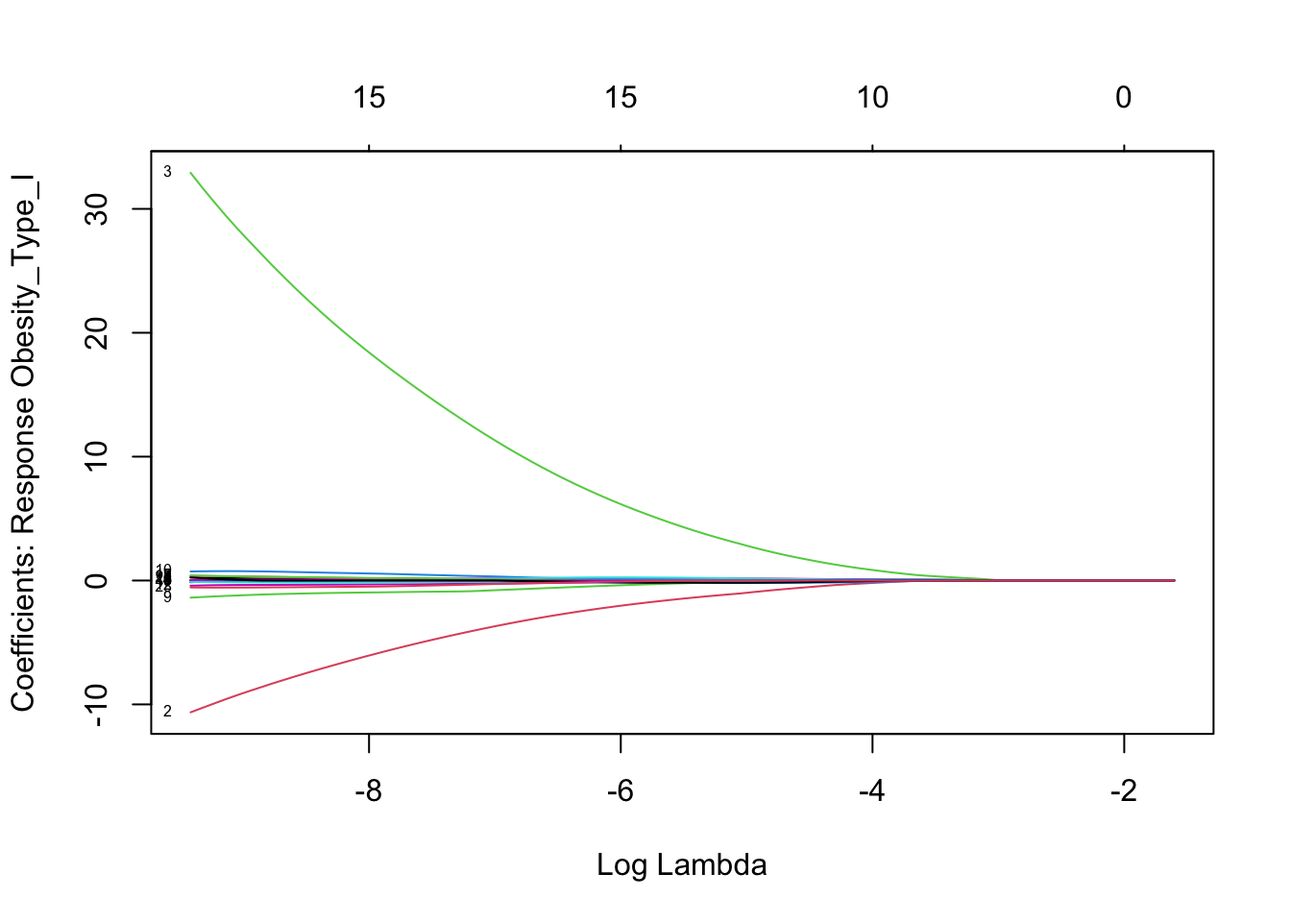
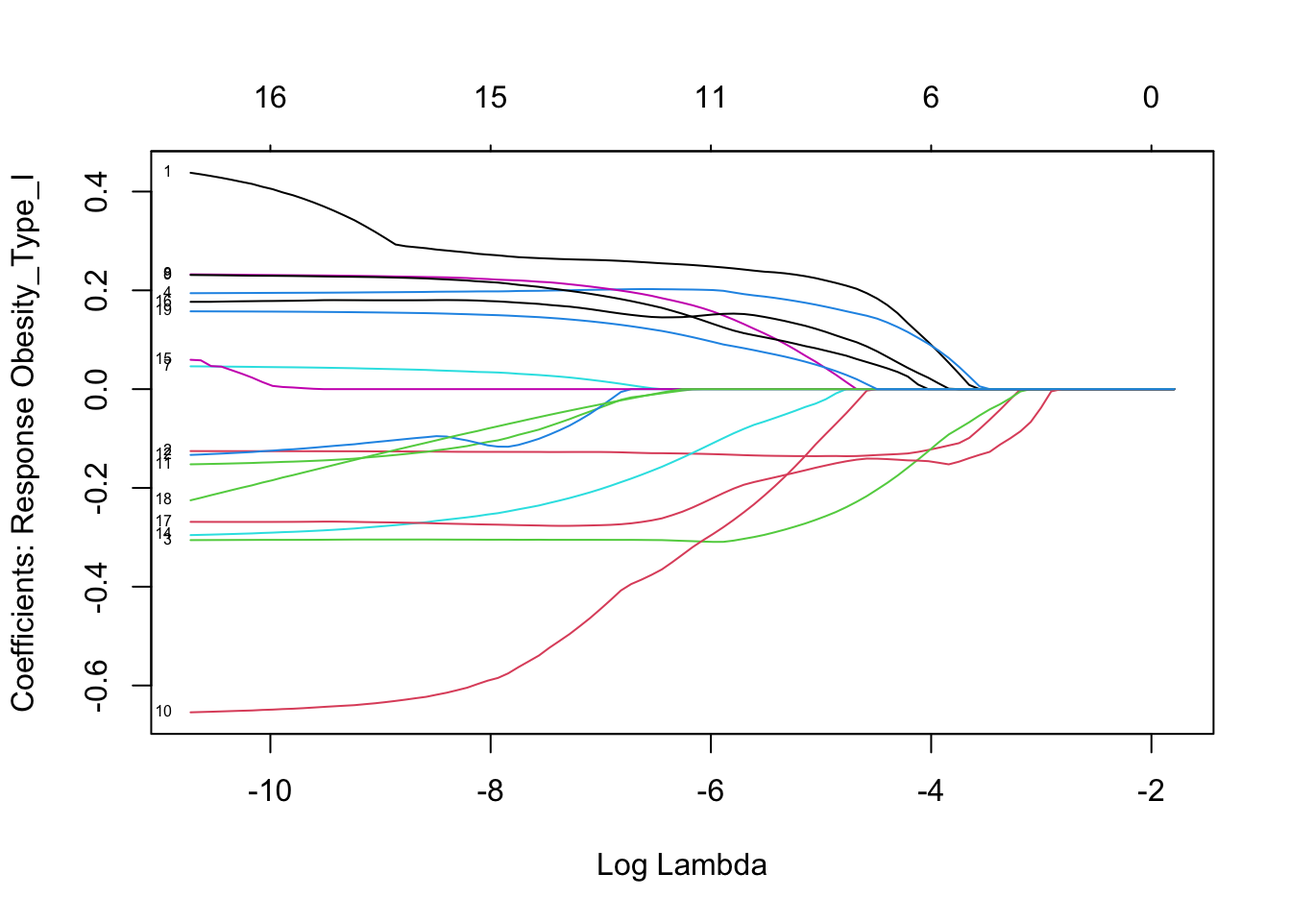
;)

diff --git a/docs/Obesity-Final-Project.html b/docs/Obesity-Final-Project.html
@@ -229,7 +229,7 @@ pre > code.sourceCode > span > a:first-child::before { text-decoration: underlin
 </tr>
 <tr class="even">
 <td><a href="https://ggplot2.tidyverse.org/">ggplot2</a></td>
-<td>to create nice-looking and informative graphs</td>
+<td>to create nice looking and informative graphs</td>
 </tr>
 <tr class="odd">
 <td><a href="https://cran.r-project.org/package=nnet">nnet</a></td>
@@ -533,39 +533,39 @@ pre > code.sourceCode > span > a:first-child::before { text-decoration: underlin
 </div>
 <div class="cell">
 <div class="sourceCode cell-code" id="cb23"><pre class="sourceCode r code-with-copy"><code class="sourceCode r"><span id="cb23-1"><a href="#cb23-1" aria-hidden="true" tabindex="-1"></a><span class="co"># all predictors to model the 7-category outcome</span></span>
-<span id="cb23-2"><a href="#cb23-2" aria-hidden="true" tabindex="-1"></a>multinom_model <span class="ot">&lt;-</span> <span class="fu">multinom</span>(NObeyesdad <span class="sc">~</span> ., <span class="at">data =</span> obesity_train)</span></code><button title="Copy to Clipboard" class="code-copy-button"><i class="bi"></i></button></pre></div>
+<span id="cb23-2"><a href="#cb23-2" aria-hidden="true" tabindex="-1"></a>multinom_model <span class="ot">&lt;-</span> <span class="fu">multinom</span>(NObeyesdad <span class="sc">~</span> . <span class="sc">-</span> Height <span class="sc">-</span> Weight, <span class="at">data =</span> obesity_train)</span></code><button title="Copy to Clipboard" class="code-copy-button"><i class="bi"></i></button></pre></div>
 <div class="cell-output cell-output-stdout">
-<pre><code># weights:  175 (144 variable)
+<pre><code># weights:  161 (132 variable)
 initial  value 3284.696332 
-iter  10 value 2716.011191
-iter  20 value 1825.936578
-iter  30 value 1330.345266
-iter  40 value 1081.252069
-iter  50 value 829.403816
-iter  60 value 552.348180
-iter  70 value 320.976456
-iter  80 value 206.982321
-iter  90 value 151.222110
-iter 100 value 108.048475
-final  value 108.048475 
+iter  10 value 2521.452313
+iter  20 value 2055.838062
+iter  30 value 1842.942856
+iter  40 value 1771.136782
+iter  50 value 1726.623624
+iter  60 value 1708.439310
+iter  70 value 1696.562854
+iter  80 value 1684.548609
+iter  90 value 1681.821920
+iter 100 value 1672.112474
+final  value 1672.112474 
 stopped after 100 iterations</code></pre>
 </div>
 <div class="sourceCode cell-code" id="cb25"><pre class="sourceCode r code-with-copy"><code class="sourceCode r"><span id="cb25-1"><a href="#cb25-1" aria-hidden="true" tabindex="-1"></a><span class="fu">tidy</span>(multinom_model)</span></code><button title="Copy to Clipboard" class="code-copy-button"><i class="bi"></i></button></pre></div>
 <div class="cell-output cell-output-stdout">
-<pre><code># A tibble: 144 × 6
+<pre><code># A tibble: 132 × 6
    y.level       term               estimate std.error statistic  p.value
    &lt;chr&gt;         &lt;chr&gt;                 &lt;dbl&gt;     &lt;dbl&gt;     &lt;dbl&gt;    &lt;dbl&gt;
- 1 Normal_Weight (Intercept)          97.1       4.79     20.3   2.31e-91
- 2 Normal_Weight GenderMale           -1.12      1.40     -0.799 4.24e- 1
- 3 Normal_Weight Age                   0.517     0.116     4.47  7.98e- 6
- 4 Normal_Weight Height             -129.        2.75    -46.9   0       
- 5 Normal_Weight Weight                3.14      0.173    18.1   4.22e-73
- 6 Normal_Weight hist_overweightyes   -2.22      1.40     -1.58  1.14e- 1
- 7 Normal_Weight FAVCyes              -3.79      1.59     -2.38  1.71e- 2
- 8 Normal_Weight FCVC                 -1.39      0.926    -1.50  1.34e- 1
- 9 Normal_Weight NCP                  -2.28      0.926    -2.46  1.37e- 2
-10 Normal_Weight CAECFrequently       -5.51      3.55     -1.55  1.21e- 1
-# ℹ 134 more rows</code></pre>
+ 1 Normal_Weight (Intercept)           9.70     1.16        8.39 4.92e-17
+ 2 Normal_Weight GenderMale            0.792    0.258       3.07 2.14e- 3
+ 3 Normal_Weight Age                   0.210    0.0384      5.46 4.78e- 8
+ 4 Normal_Weight hist_overweightyes    0.549    0.249       2.21 2.73e- 2
+ 5 Normal_Weight FAVCyes              -0.470    0.292      -1.61 1.07e- 1
+ 6 Normal_Weight FCVC                 -0.648    0.210      -3.09 2.02e- 3
+ 7 Normal_Weight NCP                  -0.505    0.149      -3.38 7.25e- 4
+ 8 Normal_Weight CAECFrequently       -3.03     0.826      -3.67 2.39e- 4
+ 9 Normal_Weight CAECno               -1.78     1.17       -1.52 1.29e- 1
+10 Normal_Weight CAECSometimes        -2.16     0.807      -2.67 7.50e- 3
+# ℹ 122 more rows</code></pre>
 </div>
 </div>
 <div class="cell">
@@ -583,31 +583,31 @@ stopped after 100 iterations</code></pre>
 <div class="cell-output cell-output-stdout">
 <pre><code>                     Truth
 Prediction            Insufficient_Weight Normal_Weight Obesity_Type_I
-  Insufficient_Weight                  47             1              0
-  Normal_Weight                         2            59              0
-  Obesity_Type_I                        0             0             87
-  Obesity_Type_II                       0             0              1
-  Obesity_Type_III                      0             0              0
-  Overweight_Level_I                    0             4              0
-  Overweight_Level_II                   0             0              4
+  Insufficient_Weight                  38            18              1
+  Normal_Weight                         5            26              4
+  Obesity_Type_I                        1             4             51
+  Obesity_Type_II                       2             2             15
+  Obesity_Type_III                      0             0              1
+  Overweight_Level_I                    1            10             11
+  Overweight_Level_II                   2             4              9
                      Truth
 Prediction            Obesity_Type_II Obesity_Type_III Overweight_Level_I
-  Insufficient_Weight               0                0                  0
-  Normal_Weight                     0                0                  2
-  Obesity_Type_I                    0                0                  0
-  Obesity_Type_II                  53                0                  0
+  Insufficient_Weight               0                0                  2
+  Normal_Weight                     0                0                 11
+  Obesity_Type_I                    1                0                  7
+  Obesity_Type_II                  50                0                  7
   Obesity_Type_III                  0               62                  0
-  Overweight_Level_I                0                0                 47
-  Overweight_Level_II               0                0                  8
+  Overweight_Level_I                0                0                 25
+  Overweight_Level_II               2                0                  5
                      Truth
 Prediction            Overweight_Level_II
-  Insufficient_Weight                   0
-  Normal_Weight                         0
-  Obesity_Type_I                        2
-  Obesity_Type_II                       0
-  Obesity_Type_III                      1
-  Overweight_Level_I                    4
-  Overweight_Level_II                  39</code></pre>
+  Insufficient_Weight                   1
+  Normal_Weight                         2
+  Obesity_Type_I                       12
+  Obesity_Type_II                      14
+  Obesity_Type_III                      0
+  Overweight_Level_I                    2
+  Overweight_Level_II                  15</code></pre>
 </div>
 </div>
 <p>Based on the confusion matrix, the model did a really good job predicting most of the obesity categories correctly. It was especially accurate for Obesity Type I, II, and III, where the predictions were almost perfect. There were a few mistakes, mainly between categories that are close to each other, like Normal Weight being confused with Overweight Level I or Overweight Level II being confused with Obesity Type I. That kind of mix-up makes sense since those groups might have similar habits or measurements. Overall, the model is performing very well across all obesity categories.</p>
@@ -617,7 +617,7 @@ Prediction            Overweight_Level_II
 <pre><code># A tibble: 1 × 3
   .metric  .estimator .estimate
   &lt;chr&gt;    &lt;chr&gt;          &lt;dbl&gt;
-1 accuracy multiclass     0.931</code></pre>
+1 accuracy multiclass     0.631</code></pre>
 </div>
 </div>
 <p>I used accuracy and a confusion matrix to evaluate how well the model performed. Accuracy is a common and simple metric that tells me what proportion of the predictions were correct overall. It’s calculated by dividing the number of correct predictions by the total number of predictions. I also included a confusion matrix because accuracy alone doesn’t always show how the model did for each specific class. The confusion matrix helps me see which categories were predicted correctly and which ones the model mixed up, so I can tell if it’s doing well across all obesity levels.</p>
@@ -630,18 +630,18 @@ Prediction            Overweight_Level_II
 <pre><code># A tibble: 12 × 6
    y.level             term     estimate std.error statistic   p.value
    &lt;chr&gt;               &lt;chr&gt;       &lt;dbl&gt;     &lt;dbl&gt;     &lt;dbl&gt;     &lt;dbl&gt;
- 1 Normal_Weight       SMOKEyes     55.5      3.12     17.8  1.16e- 70
- 2 Normal_Weight       CALCno      -32.8      1.62    -20.2  3.80e- 91
- 3 Obesity_Type_I      SMOKEyes     52.9      2.60     20.4  3.43e- 92
- 4 Obesity_Type_I      CALCno       77.0      2.58     29.8  5.44e-195
- 5 Obesity_Type_II     SMOKEyes     43.9      2.39     18.4  1.68e- 75
- 6 Obesity_Type_II     CALCno       70.3      2.83     24.8  3.02e-136
- 7 Obesity_Type_III    SMOKEyes     21.9      4.96      4.42 9.78e-  6
- 8 Obesity_Type_III    CALCno      -71.8      2.04    -35.1  3.63e-270
- 9 Overweight_Level_I  SMOKEyes     49.8      2.03     24.5  9.87e-133
-10 Overweight_Level_I  CALCno       51.2      2.14     23.9  2.68e-126
-11 Overweight_Level_II SMOKEyes     55.4      1.93     28.7  1.43e-181
-12 Overweight_Level_II CALCno       99.3      2.02     49.1  0        </code></pre>
+ 1 Normal_Weight       SMOKEyes    14.8      0.651     22.8  3.85e-115
+ 2 Normal_Weight       CALCno      -8.86     0.508    -17.4  4.29e- 68
+ 3 Obesity_Type_I      SMOKEyes    13.4      0.752     17.9  1.74e- 71
+ 4 Obesity_Type_I      CALCno      -1.37     0.578     -2.36 1.81e-  2
+ 5 Obesity_Type_II     SMOKEyes    14.5      0.760     19.0  7.90e- 81
+ 6 Obesity_Type_II     CALCno      -5.70     0.776     -7.34 2.14e- 13
+ 7 Obesity_Type_III    SMOKEyes    11.6      1.62       7.17 7.28e- 13
+ 8 Obesity_Type_III    CALCno     -28.3      3.38      -8.37 5.56e- 17
+ 9 Overweight_Level_I  SMOKEyes    11.9      1.04      11.4  2.38e- 30
+10 Overweight_Level_I  CALCno      -1.28     0.578     -2.21 2.73e-  2
+11 Overweight_Level_II SMOKEyes    13.7      0.641     21.3  7.66e-101
+12 Overweight_Level_II CALCno       1.57     0.606      2.59 9.57e-  3</code></pre>
 </div>
 </div>
 <p>The model shows that both smoking and alcohol habits are related to obesity. The coefficients for <code>SMOKEyes</code> were large and positive across all categories, meaning smokers had much higher odds of being classified as overweight or obese compared to the baseline group. For alcohol, the results were more surprising. People who said they don’t drink (<code>CALCno</code>) also had higher odds of being classified in an obesity category. This might be due to how alcohol use is reported or other lifestyle factors in the data. Overall, both variables were statistically significant and stood out as important predictors in the model.</p>
@@ -655,12 +655,13 @@ Prediction            Overweight_Level_II
 <span id="cb33-3"><a href="#cb33-3" aria-hidden="true" tabindex="-1"></a>                          <span class="at">mixture =</span> <span class="dv">1</span>) <span class="co"># 1 is LASSO</span></span>
 <span id="cb33-4"><a href="#cb33-4" aria-hidden="true" tabindex="-1"></a></span>
 <span id="cb33-5"><a href="#cb33-5" aria-hidden="true" tabindex="-1"></a>lasso_recipe <span class="ot">&lt;-</span> <span class="fu">recipe</span>(NObeyesdad <span class="sc">~</span> ., <span class="at">data =</span> obesity_train) <span class="sc">|&gt;</span></span>
-<span id="cb33-6"><a href="#cb33-6" aria-hidden="true" tabindex="-1"></a>  <span class="fu">step_dummy</span>(<span class="fu">all_nominal_predictors</span>()) <span class="sc">|&gt;</span> <span class="co"># since they are categorical </span></span>
-<span id="cb33-7"><a href="#cb33-7" aria-hidden="true" tabindex="-1"></a>  <span class="fu">step_normalize</span>(<span class="fu">all_numeric_predictors</span>()) <span class="co"># same scale </span></span>
-<span id="cb33-8"><a href="#cb33-8" aria-hidden="true" tabindex="-1"></a></span>
-<span id="cb33-9"><a href="#cb33-9" aria-hidden="true" tabindex="-1"></a>lasso_wflow <span class="ot">&lt;-</span> <span class="fu">workflow</span>() <span class="sc">|&gt;</span></span>
-<span id="cb33-10"><a href="#cb33-10" aria-hidden="true" tabindex="-1"></a>  <span class="fu">add_model</span>(lasso_model) <span class="sc">|&gt;</span></span>
-<span id="cb33-11"><a href="#cb33-11" aria-hidden="true" tabindex="-1"></a>  <span class="fu">add_recipe</span>(lasso_recipe)</span></code><button title="Copy to Clipboard" class="code-copy-button"><i class="bi"></i></button></pre></div>
+<span id="cb33-6"><a href="#cb33-6" aria-hidden="true" tabindex="-1"></a>  <span class="fu">step_rm</span>(Height, Weight) <span class="sc">|&gt;</span></span>
+<span id="cb33-7"><a href="#cb33-7" aria-hidden="true" tabindex="-1"></a>  <span class="fu">step_dummy</span>(<span class="fu">all_nominal_predictors</span>()) <span class="sc">|&gt;</span> <span class="co"># since they are categorical </span></span>
+<span id="cb33-8"><a href="#cb33-8" aria-hidden="true" tabindex="-1"></a>  <span class="fu">step_normalize</span>(<span class="fu">all_numeric_predictors</span>()) <span class="co"># same scale </span></span>
+<span id="cb33-9"><a href="#cb33-9" aria-hidden="true" tabindex="-1"></a></span>
+<span id="cb33-10"><a href="#cb33-10" aria-hidden="true" tabindex="-1"></a>lasso_wflow <span class="ot">&lt;-</span> <span class="fu">workflow</span>() <span class="sc">|&gt;</span></span>
+<span id="cb33-11"><a href="#cb33-11" aria-hidden="true" tabindex="-1"></a>  <span class="fu">add_model</span>(lasso_model) <span class="sc">|&gt;</span></span>
+<span id="cb33-12"><a href="#cb33-12" aria-hidden="true" tabindex="-1"></a>  <span class="fu">add_recipe</span>(lasso_recipe)</span></code><button title="Copy to Clipboard" class="code-copy-button"><i class="bi"></i></button></pre></div>
 </div>
 <p>I used 5 fold cross validation to tune the penalty parameter. I tested 25 (arbitrarily) different values and selected the final model using the one-standard-error rule, which prefers a simpler model that still performs well.</p>
 <div class="cell">
@@ -726,20 +727,20 @@ Prediction            Overweight_Level_II
 <span id="cb38-2"><a href="#cb38-2" aria-hidden="true" tabindex="-1"></a>  broom<span class="sc">::</span><span class="fu">tidy</span>()</span>
 <span id="cb38-3"><a href="#cb38-3" aria-hidden="true" tabindex="-1"></a>lasso_coef </span></code><button title="Copy to Clipboard" class="code-copy-button"><i class="bi"></i></button></pre></div>
 <div class="cell-output cell-output-stdout">
-<pre><code># A tibble: 168 × 4
-   class               term         estimate  penalty
-   &lt;chr&gt;               &lt;chr&gt;           &lt;dbl&gt;    &lt;dbl&gt;
- 1 Insufficient_Weight (Intercept)  -68.3    2.08e-10
- 2 Insufficient_Weight Age           -0.0313 2.08e-10
- 3 Insufficient_Weight Height        30.9    2.08e-10
- 4 Insufficient_Weight Weight      -121.     2.08e-10
- 5 Insufficient_Weight FCVC           0.840  2.08e-10
- 6 Insufficient_Weight NCP            0.379  2.08e-10
- 7 Insufficient_Weight CH2O           0.335  2.08e-10
- 8 Insufficient_Weight FAF            1.36   2.08e-10
- 9 Insufficient_Weight TUE            0      2.08e-10
-10 Insufficient_Weight Gender_Male    0.762  2.08e-10
-# ℹ 158 more rows</code></pre>
+<pre><code># A tibble: 154 × 4
+   class               term                estimate  penalty
+   &lt;chr&gt;               &lt;chr&gt;                  &lt;dbl&gt;    &lt;dbl&gt;
+ 1 Insufficient_Weight (Intercept)            2.32  2.08e-10
+ 2 Insufficient_Weight Age                   -1.99  2.08e-10
+ 3 Insufficient_Weight FCVC                   0.336 2.08e-10
+ 4 Insufficient_Weight NCP                    0.398 2.08e-10
+ 5 Insufficient_Weight CH2O                   0     2.08e-10
+ 6 Insufficient_Weight FAF                    0.183 2.08e-10
+ 7 Insufficient_Weight TUE                    0.485 2.08e-10
+ 8 Insufficient_Weight Gender_Male           -0.396 2.08e-10
+ 9 Insufficient_Weight hist_overweight_yes   -1.20  2.08e-10
+10 Insufficient_Weight FAVC_yes              -0.210 2.08e-10
+# ℹ 144 more rows</code></pre>
 </div>
 </div>
 <p>LASSO didn’t shrink that many coefficients to zero, which suggests that a lot of the variables in the dataset are actually useful for predicting obesity categories. This makes sense since the model is trying to classify people into seven different groups, so it needs a range of information to do that well. Even with regularization, LASSO still kept variables like smoking and alcohol, which shows they’re important predictors. The fact that many variables were kept means the model may be capturing more complex relationships between lifestyle habits and obesity levels.</p>
@@ -748,22 +749,22 @@ Prediction            Overweight_Level_II
 <span id="cb40-2"><a href="#cb40-2" aria-hidden="true" tabindex="-1"></a>  <span class="fu">filter</span>(term <span class="sc">%in%</span> <span class="fu">c</span>(<span class="st">"SMOKE_yes"</span>, <span class="st">"CALC_no"</span>, <span class="st">"CALC_always"</span>, <span class="st">"CALC_sometimes"</span>))</span></code><button title="Copy to Clipboard" class="code-copy-button"><i class="bi"></i></button></pre></div>
 <div class="cell-output cell-output-stdout">
 <pre><code># A tibble: 14 × 4
-   class               term      estimate  penalty
-   &lt;chr&gt;               &lt;chr&gt;        &lt;dbl&gt;    &lt;dbl&gt;
- 1 Insufficient_Weight SMOKE_yes  -0.190  2.08e-10
- 2 Insufficient_Weight CALC_no    -0.164  2.08e-10
- 3 Normal_Weight       SMOKE_yes   0.148  2.08e-10
- 4 Normal_Weight       CALC_no     0      2.08e-10
- 5 Obesity_Type_I      SMOKE_yes   0.0353 2.08e-10
- 6 Obesity_Type_I      CALC_no     0      2.08e-10
- 7 Obesity_Type_II     SMOKE_yes   0      2.08e-10
- 8 Obesity_Type_II     CALC_no     1.16   2.08e-10
- 9 Obesity_Type_III    SMOKE_yes   0      2.08e-10
-10 Obesity_Type_III    CALC_no     0      2.08e-10
-11 Overweight_Level_I  SMOKE_yes  -0.298  2.08e-10
-12 Overweight_Level_I  CALC_no     0      2.08e-10
-13 Overweight_Level_II SMOKE_yes   0      2.08e-10
-14 Overweight_Level_II CALC_no     0      2.08e-10</code></pre>
+   class               term        estimate  penalty
+   &lt;chr&gt;               &lt;chr&gt;          &lt;dbl&gt;    &lt;dbl&gt;
+ 1 Insufficient_Weight SMOKE_yes -0.904     2.08e-10
+ 2 Insufficient_Weight CALC_no    0.000951  2.08e-10
+ 3 Normal_Weight       SMOKE_yes  0.173     2.08e-10
+ 4 Normal_Weight       CALC_no   -0.286     2.08e-10
+ 5 Obesity_Type_I      SMOKE_yes  0         2.08e-10
+ 6 Obesity_Type_I      CALC_no    0.177     2.08e-10
+ 7 Obesity_Type_II     SMOKE_yes  0.119     2.08e-10
+ 8 Obesity_Type_II     CALC_no    0         2.08e-10
+ 9 Obesity_Type_III    SMOKE_yes -0.217     2.08e-10
+10 Obesity_Type_III    CALC_no   -0.0000198 2.08e-10
+11 Overweight_Level_I  SMOKE_yes -0.204     2.08e-10
+12 Overweight_Level_I  CALC_no   -0.444     2.08e-10
+13 Overweight_Level_II SMOKE_yes  0.0374    2.08e-10
+14 Overweight_Level_II CALC_no    0.0363    2.08e-10</code></pre>
 </div>
 </div>
 <p>After using LASSO, only the CALC_no variable was kept in the model. The other alcohol-related categories like CALC_always and CALC_sometimes were removed, meaning they didn’t provide enough useful information for predicting obesity categories. This shows that not drinking alcohol had more predictive value than drinking occasionally or always, at least in this dataset.</p>
@@ -776,73 +777,43 @@ Prediction            Overweight_Level_II
 <pre><code># A tibble: 1 × 3
   .metric  .estimator .estimate
   &lt;chr&gt;    &lt;chr&gt;          &lt;dbl&gt;
-1 accuracy multiclass     0.962</code></pre>
+1 accuracy multiclass     0.634</code></pre>
 </div>
 <div class="sourceCode cell-code" id="cb44"><pre class="sourceCode r code-with-copy"><code class="sourceCode r"><span id="cb44-1"><a href="#cb44-1" aria-hidden="true" tabindex="-1"></a><span class="fu">conf_mat</span>(lasso_preds, <span class="at">truth =</span> NObeyesdad, <span class="at">estimate =</span> .pred_class)</span></code><button title="Copy to Clipboard" class="code-copy-button"><i class="bi"></i></button></pre></div>
 <div class="cell-output cell-output-stdout">
 <pre><code>                     Truth
 Prediction            Insufficient_Weight Normal_Weight Obesity_Type_I
-  Insufficient_Weight                  48             2              0
-  Normal_Weight                         1            59              0
-  Obesity_Type_I                        0             0             90
-  Obesity_Type_II                       0             0              2
-  Obesity_Type_III                      0             0              0
-  Overweight_Level_I                    0             3              0
-  Overweight_Level_II                   0             0              0
+  Insufficient_Weight                  38            18              1
+  Normal_Weight                         5            26              3
+  Obesity_Type_I                        1             4             51
+  Obesity_Type_II                       2             2             15
+  Obesity_Type_III                      0             1              0
+  Overweight_Level_I                    1            10             12
+  Overweight_Level_II                   2             3             10
                      Truth
 Prediction            Obesity_Type_II Obesity_Type_III Overweight_Level_I
-  Insufficient_Weight               0                0                  0
-  Normal_Weight                     0                0                  1
-  Obesity_Type_I                    0                0                  0
-  Obesity_Type_II                  53                0                  0
+  Insufficient_Weight               0                0                  1
+  Normal_Weight                     0                0                 10
+  Obesity_Type_I                    1                0                  7
+  Obesity_Type_II                  50                0                  7
   Obesity_Type_III                  0               62                  0
-  Overweight_Level_I                0                0                 51
-  Overweight_Level_II               0                0                  5
+  Overweight_Level_I                0                0                 26
+  Overweight_Level_II               2                0                  6
                      Truth
 Prediction            Overweight_Level_II
-  Insufficient_Weight                   0
-  Normal_Weight                         0
-  Obesity_Type_I                        0
-  Obesity_Type_II                       0
+  Insufficient_Weight                   1
+  Normal_Weight                         2
+  Obesity_Type_I                       12
+  Obesity_Type_II                      14
   Obesity_Type_III                      0
   Overweight_Level_I                    2
-  Overweight_Level_II                  44</code></pre>
+  Overweight_Level_II                  15</code></pre>
 </div>
 </div>
 <p>The LASSO model had an accuracy of about 96.2%, meaning it correctly predicted the obesity category for most of the people in the test set. This is a strong result, especially since there are seven different categories. It shows that even with regularization and some coefficients being removed, the model still did a really good job at classifying individuals based on their lifestyle habits.</p>
 </section>
 <section id="insights" class="level2">
 <h2 class="anchored" data-anchor-id="insights">Insights</h2>
-<div class="cell">
-<div class="sourceCode cell-code" id="cb46"><pre class="sourceCode r code-with-copy"><code class="sourceCode r"><span id="cb46-1"><a href="#cb46-1" aria-hidden="true" tabindex="-1"></a><span class="fu">ggplot</span>(obesity_train,</span>
-<span id="cb46-2"><a href="#cb46-2" aria-hidden="true" tabindex="-1"></a>       <span class="fu">aes</span>(<span class="at">x =</span> NObeyesdad, <span class="at">fill =</span> CALC)) <span class="sc">+</span></span>
-<span id="cb46-3"><a href="#cb46-3" aria-hidden="true" tabindex="-1"></a>  <span class="fu">geom_bar</span>(<span class="at">position =</span> <span class="st">"dodge"</span>) <span class="sc">+</span></span>
-<span id="cb46-4"><a href="#cb46-4" aria-hidden="true" tabindex="-1"></a>  <span class="fu">labs</span>(</span>
-<span id="cb46-5"><a href="#cb46-5" aria-hidden="true" tabindex="-1"></a>    <span class="at">title =</span> <span class="st">"Alcohol Consumption by Obesity Category"</span>,</span>
-<span id="cb46-6"><a href="#cb46-6" aria-hidden="true" tabindex="-1"></a>    <span class="at">x =</span> <span class="st">"Obesity Category"</span>,</span>
-<span id="cb46-7"><a href="#cb46-7" aria-hidden="true" tabindex="-1"></a>    <span class="at">y =</span> <span class="st">"Count"</span>,</span>
-<span id="cb46-8"><a href="#cb46-8" aria-hidden="true" tabindex="-1"></a>    <span class="at">fill =</span> <span class="st">"Alcohol Consumption"</span></span>
-<span id="cb46-9"><a href="#cb46-9" aria-hidden="true" tabindex="-1"></a>  ) <span class="sc">+</span> <span class="fu">theme</span>(<span class="at">axis.text.x =</span> <span class="fu">element_text</span>(<span class="at">angle =</span> <span class="dv">45</span>, <span class="at">hjust =</span> <span class="dv">1</span> ))</span></code><button title="Copy to Clipboard" class="code-copy-button"><i class="bi"></i></button></pre></div>
-<div class="cell-output-display">
-<p><img src="Obesity-Final-Project_files/figure-html/unnamed-chunk-31-1.png" class="img-fluid" width="672"></p>
-</div>
-</div>
-<div class="cell">
-<div class="sourceCode cell-code" id="cb47"><pre class="sourceCode r code-with-copy"><code class="sourceCode r"><span id="cb47-1"><a href="#cb47-1" aria-hidden="true" tabindex="-1"></a><span class="fu">ggplot</span>(obesity_train,</span>
-<span id="cb47-2"><a href="#cb47-2" aria-hidden="true" tabindex="-1"></a>       <span class="fu">aes</span>(<span class="at">x =</span> NObeyesdad, <span class="at">fill =</span> SMOKE)) <span class="sc">+</span></span>
-<span id="cb47-3"><a href="#cb47-3" aria-hidden="true" tabindex="-1"></a>  <span class="fu">geom_bar</span>(<span class="at">position =</span> <span class="st">"dodge"</span>) <span class="sc">+</span></span>
-<span id="cb47-4"><a href="#cb47-4" aria-hidden="true" tabindex="-1"></a>  <span class="fu">labs</span>(</span>
-<span id="cb47-5"><a href="#cb47-5" aria-hidden="true" tabindex="-1"></a>    <span class="at">title =</span> <span class="st">"Proportion of Smokers by Obesity Category"</span>,</span>
-<span id="cb47-6"><a href="#cb47-6" aria-hidden="true" tabindex="-1"></a>    <span class="at">x =</span> <span class="st">"Obesity Category"</span>,</span>
-<span id="cb47-7"><a href="#cb47-7" aria-hidden="true" tabindex="-1"></a>    <span class="at">y =</span> <span class="st">"Count"</span>,</span>
-<span id="cb47-8"><a href="#cb47-8" aria-hidden="true" tabindex="-1"></a>    <span class="at">fill =</span> <span class="st">"Smoke"</span></span>
-<span id="cb47-9"><a href="#cb47-9" aria-hidden="true" tabindex="-1"></a>  ) <span class="sc">+</span> <span class="fu">theme</span>(<span class="at">axis.text.x =</span> <span class="fu">element_text</span>(<span class="at">angle =</span> <span class="dv">45</span>, <span class="at">hjust =</span> <span class="dv">1</span> ))</span></code><button title="Copy to Clipboard" class="code-copy-button"><i class="bi"></i></button></pre></div>
-<div class="cell-output-display">
-<p><img src="Obesity-Final-Project_files/figure-html/unnamed-chunk-32-1.png" class="img-fluid" width="672"></p>
-</div>
-</div>
-<p>These plots show the relationship between alcohol use, smoking and obesity categories. In the first graph people who drink alcohol “sometimes” make up a large portion of the higher obesity categories, especially Obesity Type III and Overweight Level I. In the second graph, smokers make up a small portion of the dataset overall, but they appear slightly more in some obesity categories like Obesity Type I and II.</p>
-<p>In both the multinomial and LASSO models, smoking and not drinking alcohol were selected as predictors in a few obesity categories. However, LASSO removed many of the related terms, and other variables like diet, physical activity, and family history were kept more consistently. So while smoking and alcohol show some connection to obesity, the models suggest they’re not the strongest predictors on their own. This highlights that these habits might play a role, but they work alongside many other factors when it comes to predicting obesity.</p>
 <section id="limitations-and-future-work" class="level3">
 <h3 class="anchored" data-anchor-id="limitations-and-future-work">Limitations and Future Work</h3>
 <p>Even though the models in this project did really well overall, there are still a few important limitations. One of the main things is that it’s hard to tell how much smoking and alcohol really affect obesity on their own. Since the models included a bunch of other lifestyle factors, it’s not easy to separate out their impact. SMOKE and CALC showed up as important in some categories, but not all, and LASSO even removed a few of them completely. That makes it seem like they might not be super strong predictors by themselves, or maybe their effect depends on other things like diet or physical activity.</p>
